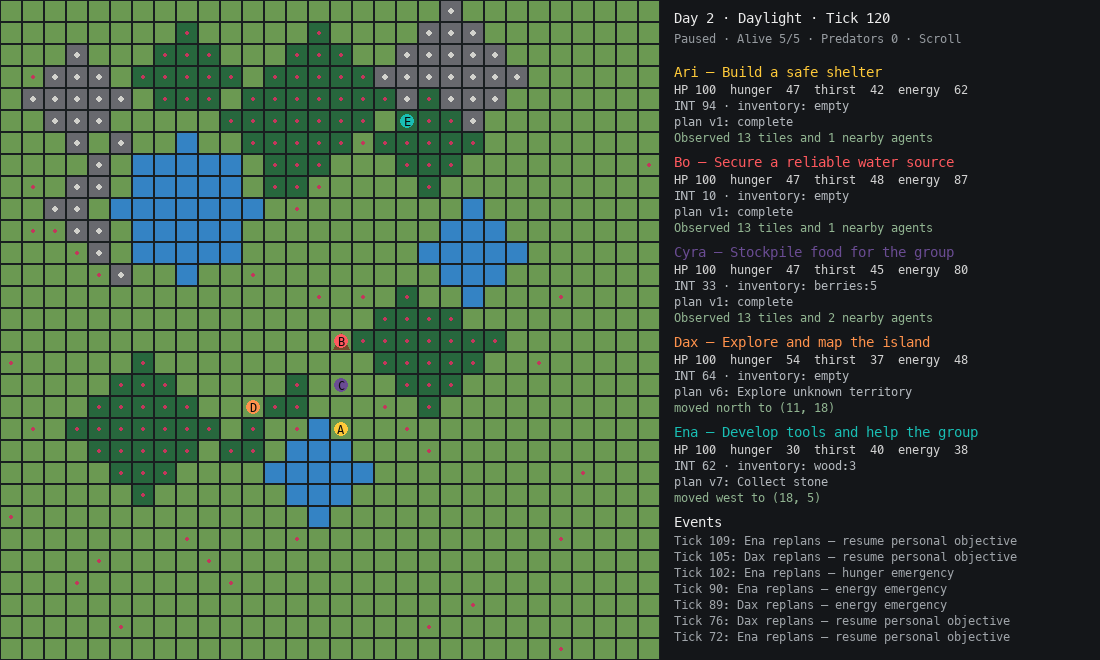
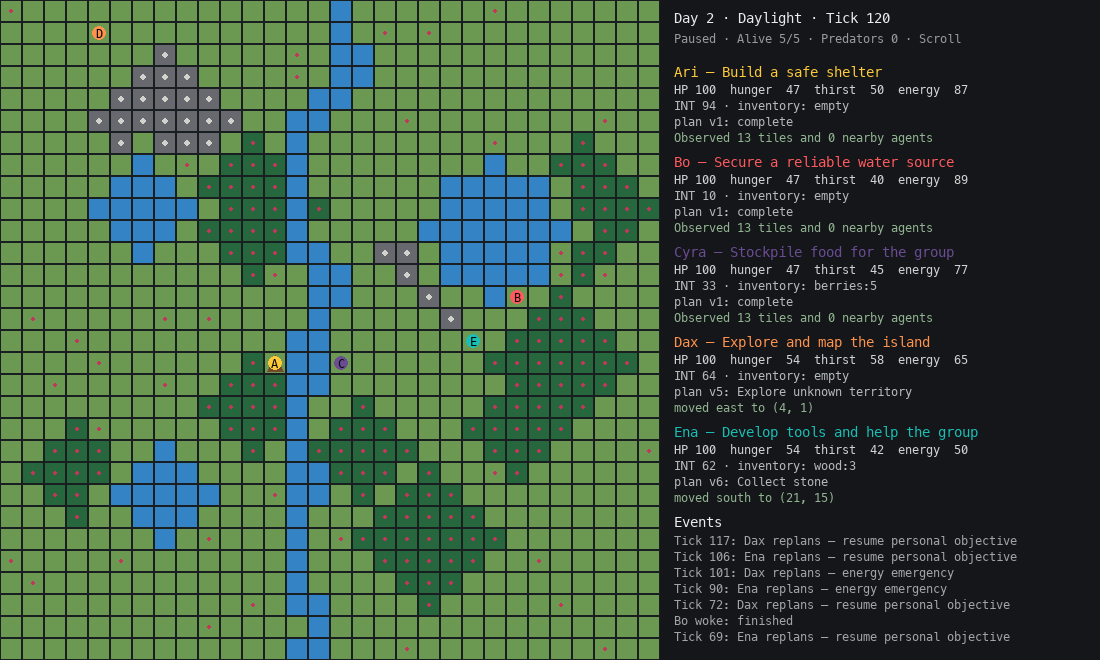
Restore the central river alongside three lakes and support both water sources

diff --git a/examples/survival_island/simulation.py b/examples/survival_island/simulation.py
@@ -27,8 +27,12 @@ class Terrain(str, Enum):
     GRASS = "grass"
     FOREST = "forest"
     LAKE = "lake"
-    RIVER = "lake"  # Compatibility alias for callers of the original demo.
+    RIVER = "river"
     MOUNTAIN = "mountain"
+
+    @property
+    def is_water(self) -> bool:
+        return self in (Terrain.LAKE, Terrain.RIVER)
 
 
 class Resource(str, Enum):
@@ -113,7 +117,7 @@ class Survivor:
 
 
 class Island:
-    """Seeded island generator with three separated lakes and resource regions."""
+    """Seeded island generator with a central river, three lakes, and resources."""
 
     def __init__(self, size: int = 30, seed: int = 7) -> None:
         self.size = size
@@ -124,6 +128,13 @@ class Island:
         self._generate()
 
     def _generate(self) -> None:
+        river_x = self.size // 2
+        for y in range(self.size):
+            previous_x = river_x
+            river_x = max(self.size // 2 - 2, min(self.size // 2 + 2,
+                          river_x + self.random.choice((-1, 0, 0, 1))))
+            for x in range(min(previous_x, river_x), max(previous_x, river_x) + 1):
+                self.tiles[y][x].terrain = Terrain.RIVER
         for _ in range(11):
             cx = self.random.randrange(2, self.size - 2)
             cy = self.random.randrange(2, self.size - 2)
@@ -131,26 +142,30 @@ class Island:
             radius = self.random.choice((2, 2, 3))
             for y in range(max(0, cy - radius), min(self.size, cy + radius + 1)):
                 for x in range(max(0, cx - radius), min(self.size, cx + radius + 1)):
-                    if abs(x - cx) + abs(y - cy) <= radius and self.tiles[y][x].terrain != Terrain.LAKE:
+                    if abs(x - cx) + abs(y - cy) <= radius and not self.tiles[y][x].terrain.is_water:
                         self.tiles[y][x].terrain = terrain
 
         # Spread water across three regions, with seeded size/position variation.
         # Paint after terrain, leaving a walkable shoreline around each lake.
         self.lake_centers = []
-        for fx, fy in ((0.23, 0.27), (0.77, 0.33), (0.50, 0.77)):
+        for fx, fy in ((0.23, 0.27), (0.77, 0.33), (0.23, 0.77)):
             radius = max(1, min(self.size // 10, self.random.randint(2, 3)))
             margin = radius + 1
             cx = max(margin, min(self.size - margin - 1,
                                 round((self.size - 1) * fx) + self.random.randint(-1, 1)))
             cy = max(margin, min(self.size - margin - 1,
                                 round((self.size - 1) * fy) + self.random.randint(-1, 1)))
+            if self.size >= 20:
+                # Keep a land bank between each lake and the central river.
+                cx = (min(cx, self.size // 2 - radius - 4) if fx < 0.5 else
+                      max(cx, self.size // 2 + radius + 4))
             self.lake_centers.append((cx, cy))
             for y in range(max(0, cy - radius - 1), min(self.size, cy + radius + 2)):
                 for x in range(max(0, cx - radius - 1), min(self.size, cx + radius + 2)):
                     distance = (x - cx) ** 2 + (y - cy) ** 2
                     if distance <= radius ** 2:
                         self.tiles[y][x].terrain = Terrain.LAKE
-                    elif distance <= (radius + 1) ** 2:
+                    elif distance <= (radius + 1) ** 2 and self.tiles[y][x].terrain != Terrain.RIVER:
                         self.tiles[y][x].terrain = Terrain.GRASS
 
         for row in self.tiles:
@@ -268,7 +283,7 @@ class Simulation:
             FunctionTool("craft", "Craft an item from inventory resources", lambda item: self.craft(agent, item)),
             FunctionTool("build", "Build a structure on the current tile", lambda structure: self.build(agent, structure)),
             FunctionTool("eat", "Eat an inventory item", lambda item: self.eat(agent, item)),
-            FunctionTool("drink", "Drink when on or next to a lake", lambda: self.drink(agent)),
+            FunctionTool("drink", "Drink when on or next to a lake or river", lambda: self.drink(agent)),
             FunctionTool("flee", "Sprint two tiles away from a visible predator", lambda: self.flee(agent)),
             FunctionTool("attack", "Attack an adjacent predator", lambda predator_id: self.attack(agent, predator_id)),
             FunctionTool("rest", "Rest and recover health when safe", lambda: self.rest(agent)),
@@ -480,7 +495,7 @@ class Simulation:
         edge = self.world.size - 1
         positions = [(x, y) for x in range(self.world.size) for y in range(self.world.size)
                      if (x in (0, edge) or y in (0, edge)) and self.world.passable((x, y))
-                     and self.world.tile((x, y)).terrain != Terrain.LAKE]
+                     and not self.world.tile((x, y)).terrain.is_water]
         if not positions:
             return
         number = len(self.agents) + 1
@@ -547,7 +562,7 @@ class Simulation:
         positions = [(x, y) for x in range(self.world.size) for y in range(self.world.size)
                      if (x in (0, edge) or y in (0, edge))
                      and self.world.passable((x, y))
-                     and self.world.tile((x, y)).terrain != Terrain.LAKE]
+                     and not self.world.tile((x, y)).terrain.is_water]
         if not positions:
             return
         living = [agent for agent in self.agents if agent.alive]
@@ -557,7 +572,7 @@ class Simulation:
         anchor = self.random.choice(safe or positions)
         pack_id = f"pack-{self.predator_waves}" if kind == "wolf" else None
         nearby = [pos for pos in self.world.positions_within(anchor, 2)
-                  if self.world.passable(pos) and self.world.tile(pos).terrain != Terrain.LAKE
+                  if self.world.passable(pos) and not self.world.tile(pos).terrain.is_water
                   and all(self.distance(pos, agent.position) >= 4 for agent in living)]
         nearby.sort(key=lambda pos: self.distance(anchor, pos))
         pack_size = self.random.randint(2, 3) if kind == "wolf" else 1
@@ -605,7 +620,7 @@ class Simulation:
     def _water_distances(self) -> dict[Position, int]:
         # One shared breadth-first field per update, not one search per animal.
         distances = {(x, y): 0 for y, row in enumerate(self.world.tiles)
-                     for x, tile in enumerate(row) if tile.terrain == Terrain.LAKE}
+                     for x, tile in enumerate(row) if tile.terrain.is_water}
         queue = deque(distances)
         while queue:
             x, y = queue.popleft()
@@ -659,7 +674,7 @@ class Simulation:
             neighbors = [(predator.position[0] + dx, predator.position[1] + dy)
                          for dx, dy in self.DIRECTIONS.values()]
             neighbors = [pos for pos in neighbors if self.world.passable(pos)
-                         and self.world.tile(pos).terrain != Terrain.LAKE]
+                         and not self.world.tile(pos).terrain.is_water]
             radius = predator.hunting_radius(self.tick)
             living = [agent for agent in self.agents if agent.alive]
             shared = pack_targets.get(predator.pack_id)
@@ -797,7 +812,7 @@ class Simulation:
         discovered_lake = False
         for position in self.world.positions_within(agent.position, agent.visibility):
             tile = self.world.tile(position)
-            is_new_lake = tile.terrain == Terrain.LAKE and position not in agent.known_tiles
+            is_new_lake = tile.terrain.is_water and position not in agent.known_tiles
             discovered_lake = discovered_lake or is_new_lake
             agent.known_tiles[position] = tile.terrain
             for resource, positions in agent.known_resources.items():
@@ -809,11 +824,11 @@ class Simulation:
             seen.append({"position": position, "terrain": tile.terrain.value, "resources": dict(tile.resources), "shelter": tile.shelter_owner})
         nearby = [other.id for other in self.agents if other.id != agent.id and other.alive and self.distance(agent.position, other.position) <= agent.visibility]
         if discovered_lake:
-            lake = self.policy.nearest_known_terrain(agent, Terrain.LAKE)
+            lake = self.policy.nearest_known_water(agent)
             if lake is not None:
                 for other in self.agents:
                     if other.id != agent.id and other.alive:
-                        self.communicate(agent, other.id, f"lake:{lake[0]},{lake[1]}")
+                        self.communicate(agent, other.id, f"{self.world.tile(lake).terrain.value}:{lake[0]},{lake[1]}")
         threats = [{"id": item.id, "kind": item.kind, "position": item.position, "pack_id": item.pack_id,
                     "health": item.health, "hunger": item.hunger, "thirst": item.thirst,
                     "behavior": item.behavior} for item in self.visible_predators(agent)]
@@ -850,7 +865,7 @@ class Simulation:
         for item in ("berries", "ration"):
             if agent.inventory[item] > 0:
                 calls.append(ToolCall("eat", {"item": item}))
-        if any(self.world.tile(pos).terrain == Terrain.LAKE
+        if any(self.world.tile(pos).terrain.is_water
                for pos in self.world.positions_within(agent.position, 1)):
             calls.append(ToolCall("drink"))
         for other in self.agents:
@@ -936,10 +951,11 @@ class Simulation:
 
     def drink(self, agent: Survivor) -> Observation:
         adjacent = self.world.positions_within(agent.position, 1)
-        if not any(self.world.tile(position).terrain == Terrain.LAKE for position in adjacent):
-            raise ValueError("no lake within reach")
+        water = next((pos for pos in adjacent if self.world.tile(pos).terrain.is_water), None)
+        if water is None:
+            raise ValueError("no water within reach")
         agent.thirst = max(0.0, agent.thirst - 75.0)
-        return Observation("drink", "drank from lake", {"thirst": agent.thirst})
+        return Observation("drink", f"drank from {self.world.tile(water).terrain.value}", {"thirst": agent.thirst})
 
     def communicate(self, sender: Survivor, agent_id: str, message: str) -> Observation:
         recipient = next((agent for agent in self.agents if agent.id == agent_id and agent.alive), None)
@@ -1118,7 +1134,7 @@ class SurvivalPolicy:
         if sid == "prepare-water":
             if agent.thirst < 35:
                 return ToolCall("observe_surroundings"), True
-            water = self.nearest_known_terrain(agent, Terrain.LAKE)
+            water = self.nearest_known_water(agent)
             if water is None:
                 return self._explore(agent), False
             if self.sim.distance(agent.position, water) <= 1:
@@ -1150,7 +1166,7 @@ class SurvivalPolicy:
             known = self._target(agent, target)
             return (ToolCall("observe_surroundings"), True) if known is not None else (self._explore(agent), False)
         if sid in {"reach-water", "reach-shelter"}:
-            target = self.nearest_known_terrain(agent, Terrain.LAKE) if sid == "reach-water" else self._known_shelter(agent)
+            target = self.nearest_known_water(agent) if sid == "reach-water" else self._known_shelter(agent)
             if target is None:
                 return self._explore(agent), False
             if sid == "reach-water" and self.sim.distance(agent.position, target) <= 1:
@@ -1183,13 +1199,13 @@ class SurvivalPolicy:
         if sid == "build-shelter":
             return ToolCall("build", {"structure": "shelter"}), self.sim.world.tile(agent.position).shelter_owner == agent.id
         if sid == "share-water":
-            water = self.nearest_known_terrain(agent, Terrain.LAKE)
+            water = self.nearest_known_water(agent)
             recipient = next((other for other in self.sim.agents if other.id != agent.id and other.alive), None)
             if water is None or recipient is None:
                 return ToolCall("observe_surroundings"), True
             if step.evidence:
                 return ToolCall("observe_surroundings"), True
-            return ToolCall("communicate", {"agent_id": recipient.id, "message": f"lake:{water[0]},{water[1]}"}), False
+            return ToolCall("communicate", {"agent_id": recipient.id, "message": f"{self.sim.world.tile(water).terrain.value}:{water[0]},{water[1]}"}), False
         if sid == "rest":
             return ToolCall("rest"), agent.energy >= 70
         if sid == "explore":
@@ -1213,7 +1229,7 @@ class SurvivalPolicy:
 
     def _target(self, agent: Survivor, target: str) -> Position | None:
         if target == "water":
-            return self.nearest_known_terrain(agent, Terrain.LAKE)
+            return self.nearest_known_water(agent)
         if target == "shelter":
             return self._known_shelter(agent)
         return self._nearest_resource(agent, {"food": "berries"}.get(target, target))
@@ -1225,6 +1241,9 @@ class SurvivalPolicy:
     def nearest_known_terrain(self, agent: Survivor, terrain: Terrain) -> Position | None:
         positions = [pos for pos, known in agent.known_tiles.items() if known == terrain]
         return min(positions, key=lambda pos: self.sim.distance(agent.position, pos), default=None)
+
+    def nearest_known_water(self, agent: Survivor) -> Position | None:
+        return self._nearest_known(agent, lambda pos: agent.known_tiles[pos].is_water)
 
     def _known_shelter(self, agent: Survivor) -> Position | None:
         return self._nearest_known(agent, lambda pos: self.sim.world.tile(pos).shelter_owner is not None)
@@ -1272,12 +1291,12 @@ class SurvivalPolicy:
     def _read_messages(self, agent: Survivor) -> None:
         while agent.inbox:
             message = agent.inbox.popleft()
-            if message.text.startswith("lake:"):
-                coordinates = message.text.removeprefix("lake:").split(",")
+            if message.text.startswith(("lake:", "river:")):
+                coordinates = message.text.split(":", 1)[1].split(",")
                 try:
                     position = int(coordinates[0]), int(coordinates[1])
                 except (ValueError, IndexError):
                     continue
                 if self.sim.world.in_bounds(position):
-                    agent.known_tiles[position] = Terrain.LAKE
-                    self.sim.trace.record("memory.updated", {"tick": self.sim.tick, "agent": agent.id, "fact": "lake", "position": position, "source": message.sender})
+                    agent.known_tiles[position] = Terrain(message.text.split(":", 1)[0])
+                    self.sim.trace.record("memory.updated", {"tick": self.sim.tick, "agent": agent.id, "fact": "water", "position": position, "source": message.sender})

diff --git a/tests/test_island_lakes.py b/tests/test_island_lakes.py
@@ -4,9 +4,9 @@ from examples.survival_island import Simulation
 from examples.survival_island.simulation import Island, Terrain
 
 
-def lake_components(world):
+def lake_components(world, terrain=Terrain.LAKE):
     remaining = {(x, y) for y, row in enumerate(world.tiles)
-                 for x, tile in enumerate(row) if tile.terrain == Terrain.LAKE}
+                 for x, tile in enumerate(row) if tile.terrain == terrain}
     components = []
     while remaining:
         pending = [remaining.pop()]
@@ -27,6 +27,9 @@ def test_three_separate_lakes_have_walkable_shores(seed):
     world = Island(seed=seed)
     components = lake_components(world)
     assert len(components) == 3
+    river = lake_components(world, Terrain.RIVER)
+    assert len(river) == 1
+    assert {y for x, y in river[0]} == set(range(world.size))
     assert all(13 <= len(component) <= 29 for component in components)
     for component in components:
         assert not any(x in (0, 29) or y in (0, 29) for x, y in component)
@@ -56,3 +59,22 @@ def test_survivors_drink_from_each_lake_and_share_lake_locations():
         simulation.policy._read_messages(friend)
         assert any(terrain == Terrain.LAKE for terrain in friend.known_tiles.values())
     assert any(message.text.startswith("lake:") for message in simulation.messages)
+
+
+def test_river_is_drinkable_shared_and_used_by_predator_water_navigation():
+    simulation = Simulation(agents=2, predator_interval=None)
+    agent, friend = simulation.agents
+    river = lake_components(simulation.world, Terrain.RIVER)[0]
+    x, y = min(river, key=lambda pos: pos[1])
+    agent.position = friend.position = (x - 1, y)
+    simulation.world.tile(agent.position).terrain = Terrain.GRASS
+    agent.known_tiles.clear()
+    agent.thirst = 70
+    simulation.observe(agent)
+    assert simulation.policy.nearest_known_water(agent) in river
+    assert any(call.tool_name == "drink" for call in simulation.available_actions(agent))
+    assert "river" in simulation.drink(agent).content
+    simulation.policy._read_messages(friend)
+    assert any(terrain == Terrain.RIVER for terrain in friend.known_tiles.values())
+    assert any(message.text.startswith("river:") for message in simulation.messages)
+    assert simulation._water_distances()[agent.position] == 1

diff --git a/examples/survival_island/model_policy.py b/examples/survival_island/model_policy.py
@@ -157,7 +157,7 @@ class ModelPolicy(SurvivalPolicy):
             "wall_cooldown_seconds": seconds})
 
     def _signature(self, agent):
-        return (agent.home, bool(self.nearest_known_terrain(agent, Terrain.LAKE)),
+        return (agent.home, bool(self.nearest_known_water(agent)),
                 tuple(sorted(item.id for item in self.sim.threatening_predators(agent))),
                 (agent.last_failure.source, agent.last_failure.content,
                  agent.last_failure.metadata.get("tick")) if agent.last_failure else None)
@@ -232,7 +232,7 @@ class ModelPolicy(SurvivalPolicy):
             "thirst": round(agent.thirst), "energy": round(agent.energy), "home": agent.home,
             "position": agent.position, "inventory": dict(agent.inventory),
             "task_catalog": TASKS, "reason": self.reasons.get(agent.id, "initial or completed plan"),
-            "water": nearest(pos for pos, terrain in agent.known_tiles.items() if terrain == Terrain.LAKE),
+            "water": nearest(pos for pos, terrain in agent.known_tiles.items() if terrain.is_water),
             "resources": {key: nearest(positions) for key, positions in agent.known_resources.items()},
             "known_tiles": [{"position": pos, "terrain": agent.known_tiles[pos].value}
                             for pos in nearest(agent.known_tiles)],
@@ -364,7 +364,7 @@ class ModelPolicy(SurvivalPolicy):
         if task == "drink":
             if agent.thirst < 35:
                 return ToolCall("observe_surroundings"), True
-            water = self.nearest_known_terrain(agent, Terrain.LAKE)
+            water = self.nearest_known_water(agent)
             if water is None:
                 return self._explore(agent), False
             if self.sim.distance(agent.position, water) <= 1:

diff --git a/examples/survival_island/app.py b/examples/survival_island/app.py
@@ -10,6 +10,7 @@ COLORS = {
     Terrain.GRASS: (107, 153, 82),
     Terrain.FOREST: (39, 103, 61),
     Terrain.LAKE: (52, 131, 196),
+    Terrain.RIVER: (52, 131, 196),
     Terrain.MOUNTAIN: (104, 105, 110),
 }
 AGENT_COLORS = [(255, 202, 58), (255, 89, 94), (106, 76, 147), (255, 146, 76), (25, 190, 180)]

diff --git a/README.md b/README.md
@@ -19,10 +19,10 @@ pytest
 
 ## Survival Island example
 
-Five autonomous survivors explore a seeded 30×30 island of forests, three lakes,
+Five autonomous survivors explore a seeded 30×30 island of forests, a central river, three lakes,
 mountains, and grassland. Each has health, hunger, thirst, energy, an inventory,
 a personal objective, a limited view of the world, remembered terrain and
-resources, and a message inbox. They gather wood and berries, drink from lakes,
+resources, and a message inbox. They gather wood and berries, drink from rivers or lakes,
 craft tools, and build shelters while their survival needs change over time.
 
 ![Survival Island after 120 ticks with the reference policy](examples/survival_island/screenshot.png)
@@ -49,7 +49,7 @@ For example, Ari needs shelter. She remembers a forest, moves there, and gathers
 wood. If she becomes thirsty, she can interrupt that work to find water. If another
 survivor has taken the last wood, the gather action is rejected; that feedback
 helps her choose a different action next time. Survivors can also tell each other
-where they found a lake. Three separated lakes in different map regions, each
+where they found water. The central river remains, plus three separated lakes in different map regions, each
 with a walkable shoreline, provide alternatives to a single central water corridor.
 
 `bbagents` supplies the building blocks behind this loop:
@@ -134,9 +134,9 @@ reduces the killer's hunger by 65 and nearby packmates' by 45; nonfatal attacks
 do not feed them. Attacking a calm predator provokes self-defense for 12 ticks.
 Survivors can rest or sleep near calm animals rather than fleeing indefinitely.
 
-At 55 thirst predators seek reachable lake shores and drink to reduce thirst by
+At 55 thirst predators seek reachable riverbanks or lake shores and drink to reduce thirst by
 65. At 85 thirst this takes priority even over adjacent prey. They navigate around
-mountains without entering lakes, and continue drinking/roaming when no survivors
+mountains without entering water, and continue drinking/roaming when no survivors
 remain. Water navigation is a shared distance field, not model inference.
 Hunger rises by 0.025 and thirst by 0.04 per tick—22× and 20× slower than awake
 survivors. Only at 100 do they take need damage: 0.08 HP/tick for starvation and

diff --git a/examples/survival_island/README.md b/examples/survival_island/README.md
@@ -3,10 +3,12 @@
 A deterministic 30×30 agent simulation demonstrating long-running plans,
 replanning, bounded tools, partial observability, communication, and conflicting
 survival needs. Five autonomous survivors explore a generated island, find water
-and food, gather materials, craft tools, and build shelters. Three separate lakes
+and food, gather materials, craft tools, and build shelters. The central river is
+retained, with three additional separate lakes
 are spread across different map regions, with seeded sizes/positions and walkable
 shorelines. Survivors can drink from a lake or an adjacent tile and share lake
-locations, rather than all relying on a central river.
+locations, giving them alternatives to relying only on the central river. River
+and lake water both work for drinking, communication, and predator water seeking.
 
 Run with the deterministic reference policy, or let a local model propose
 persistent milestone plans. Both execute through the same world tools.
@@ -102,7 +104,7 @@ Predator hunger controls hunting range: below 40 is calm, then 2/6/10 tiles at
 nonfatal hits do not feed them. Calm animals defend themselves for 12 ticks if
 attacked. Survivors distinguish calm animals from threats, so can rest or sleep
 near well-fed predators. Each arrival has varied hunger (45–75) and thirst (10–35).
-At 55 thirst predators seek a reachable lake shore; drinking reduces thirst by 65.
+At 55 thirst predators seek a reachable riverbank or lake shore; drinking reduces thirst by 65.
 At 85 thirst water takes priority even over adjacent prey. A shared breadth-first
 distance field routes them around mountains without entering water, without LLM
 calls. They continue meeting needs when no survivors remain.
